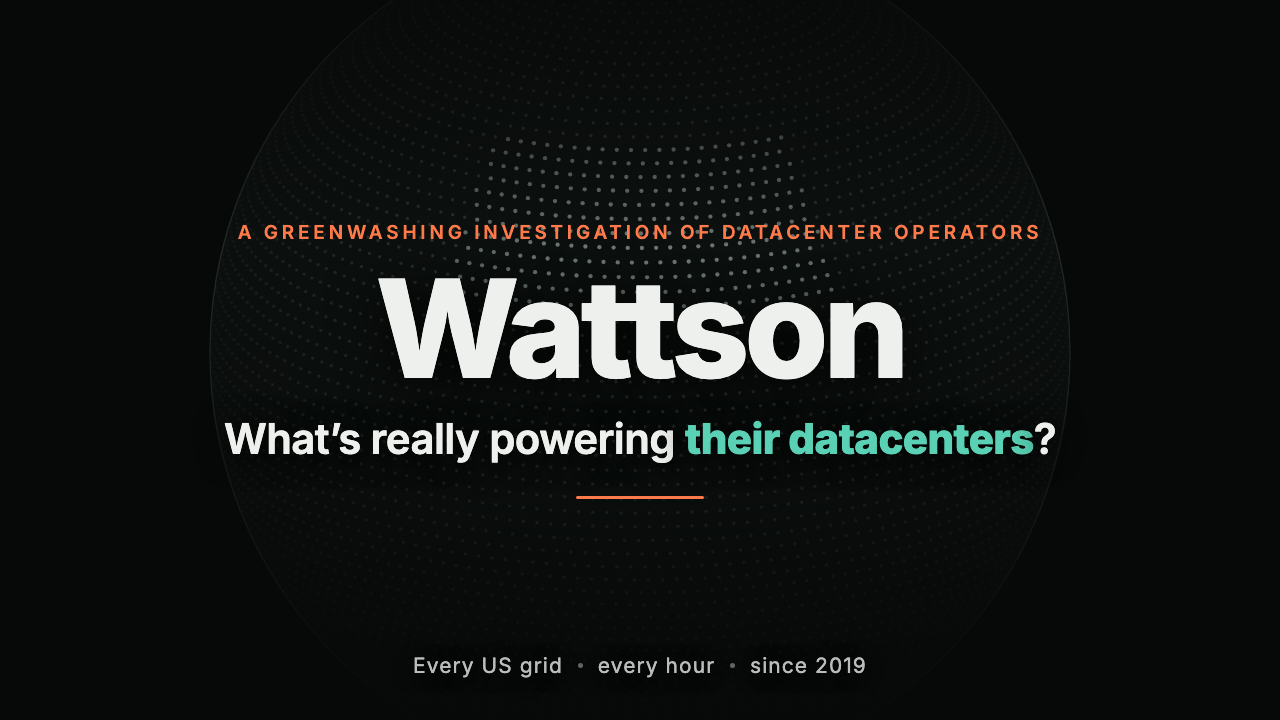
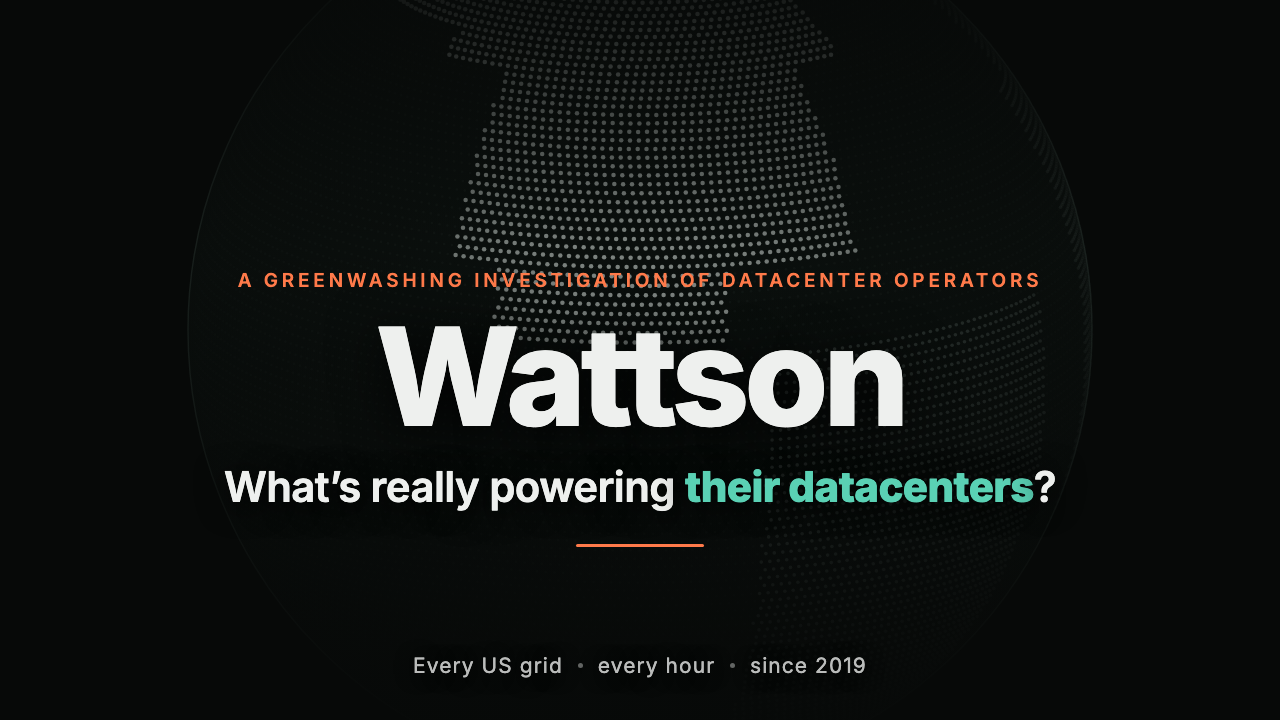
thumbnail: the landing screen's globe, drawn rather than screenshotted
A screenshot of the landing ghosts its own headline and body text through
whatever is overlaid. The globe is now generated: an orthographic dot sphere
that overruns the frame like the real one, North America bright, the other
continents dim, ocean almost gone.

Changed region(s): [[0.1562, 0.0306, 0.8438, 0.7028], [0.4688, 0.7333, 0.5312, 0.7639]]

diff --git a/docs/pitch/thumbnail.html b/docs/pitch/thumbnail.html
@@ -8,7 +8,7 @@ svg{position:absolute;inset:0}
 .v{position:absolute;inset:0;background:
  radial-gradient(58% 54% at 50% 47%, rgba(7,9,8,.40) 0%, rgba(7,9,8,.60) 62%, rgba(7,9,8,.82) 100%),
  linear-gradient(180deg, rgba(7,9,8,.55) 0%, rgba(7,9,8,0) 34%, rgba(7,9,8,.88) 100%)}
-.c{position:absolute;inset:0;display:flex;flex-direction:column;align-items:center;justify-content:center;text-align:center;padding:0 64px}
+.c{position:absolute;inset:0;display:flex;flex-direction:column;align-items:center;justify-content:center;text-align:center;padding:96px 64px 0}
 .eyebrow{font-size:19px;font-weight:600;letter-spacing:.20em;text-transform:uppercase;color:#ff7a4a;margin-bottom:24px}
 h1{font-size:136px;line-height:.9;font-weight:800;letter-spacing:-.038em;color:#eef0ee;text-shadow:0 8px 52px rgba(0,0,0,.95)}
 .sub{margin-top:24px;font-size:42px;line-height:1.2;font-weight:600;letter-spacing:-.014em;color:#eef0ee;text-shadow:0 4px 30px rgba(0,0,0,.98)}
@@ -29,30 +29,34 @@ h1{font-size:136px;line-height:.9;font-weight:800;letter-spacing:-.038em;color:#
 <div class="foot"><span>Every US grid</span><span class="dot"></span><span>every hour</span><span class="dot"></span><span>since 2019</span></div>
 </div>
 <script>
-// Orthographic dot sphere, rotated so North America faces the viewer. Dots brighten toward the
-// centre of the disc and the US band is warmer, matching the product's own land rendering.
+// The landing screen's globe: a big dotted sphere that overruns the frame, land bright, ocean almost
+// gone, North America facing the viewer. Orthographic projection, dots culled on the far side.
 const NS='http://www.w3.org/2000/svg', svg=document.getElementById('g');
-const cx=640, cy=352, R=430, lon0=-96*Math.PI/180, tilt=20*Math.PI/180;
+const cx=640, cy=330, R=452, lon0=-98*Math.PI/180, tilt=16*Math.PI/180;
 function add(el,a){const n=document.createElementNS(NS,el);for(const k in a)n.setAttribute(k,a[k]);svg.appendChild(n);return n}
-add('circle',{cx,cy,r:R,fill:'#111815'});
-const rings=90;
+add('circle',{cx,cy,r:R,fill:'#0d1411'});
+add('circle',{cx,cy,r:R,fill:'none',stroke:'#3d4f47','stroke-width':1.4,'stroke-opacity':0.8});
+// Coarse land mask: boxes in [latMin,latMax,lonMin,lonMax]. Enough for a recognisable planet.
+const NA=[[24,50,-125,-66],[50,71,-141,-55],[14,32,-118,-86],[60,83,-56,-20],[55,71,-168,-141]];
+const OTHER=[[-56,13,-82,-34],[36,71,-10,40],[-35,37,-18,52],[8,55,40,100],[10,54,100,145],[-44,-11,113,154],[60,78,60,180]];
+const inBox=(la,lo,B)=>B.some(b=>la>=b[0]&&la<=b[1]&&lo>=b[2]&&lo<=b[3]);
+const rings=150;
 for(let i=0;i<=rings;i++){
-  const lat=(-90+180*i/rings)*Math.PI/180;
-  const circ=Math.max(1,Math.round(Math.cos(lat)*190));
+  const lat=(-90+180*i/rings)*Math.PI/180, latd=lat*180/Math.PI;
+  const circ=Math.max(1,Math.round(Math.cos(lat)*320));
   for(let j=0;j<circ;j++){
-    const lon=(-Math.PI+2*Math.PI*j/circ);
+    const lon=-Math.PI+2*Math.PI*j/circ, lond=lon*180/Math.PI;
     const x3=Math.cos(lat)*Math.cos(lon-lon0), y3=Math.sin(lat), z3=Math.cos(lat)*Math.sin(lon-lon0);
     const yr=y3*Math.cos(tilt)-x3*Math.sin(tilt), xr=y3*Math.sin(tilt)+x3*Math.cos(tilt);
-    if(xr<=0.02) continue;                                  // back of the sphere
-    const px=cx+R*z3, py=cy-R*yr;
-    const depth=Math.pow(xr,0.85);
-    const latd=lat*180/Math.PI, lond=lon*180/Math.PI;
-    const us = latd>24&&latd<50&&lond>-126&&lond<-66;
-    const o=(us?1.0:0.52)*depth;
-    if(o<0.05) continue;
-    add('circle',{cx:px.toFixed(1),cy:py.toFixed(1),r:(us?2.15:1.7).toFixed(2),
-      fill:us?'#cfe3da':'#93a49c','fill-opacity':o.toFixed(3)});
+    if(xr<=0.015) continue;
+    const depth=Math.pow(xr,0.7);
+    const na=inBox(latd,lond,NA), other=!na&&inBox(latd,lond,OTHER);
+    let o,r,c;
+    if(na){o=1.0*depth; r=2.25; c='#eaf5ef';}
+    else if(other){o=0.58*depth; r=1.8; c='#93a8a0';}
+    else {o=0.16*depth; r=1.3; c='#56675f';}
+    if(o<0.045) continue;
+    add('circle',{cx:(cx+R*z3).toFixed(1),cy:(cy-R*yr).toFixed(1),r:r.toFixed(2),fill:c,'fill-opacity':o.toFixed(3)});
   }
 }
-add('circle',{cx,cy,r:R,fill:'none',stroke:'#5b6f66','stroke-width':1.4,'stroke-opacity':0.75});
 </script></body></html>
